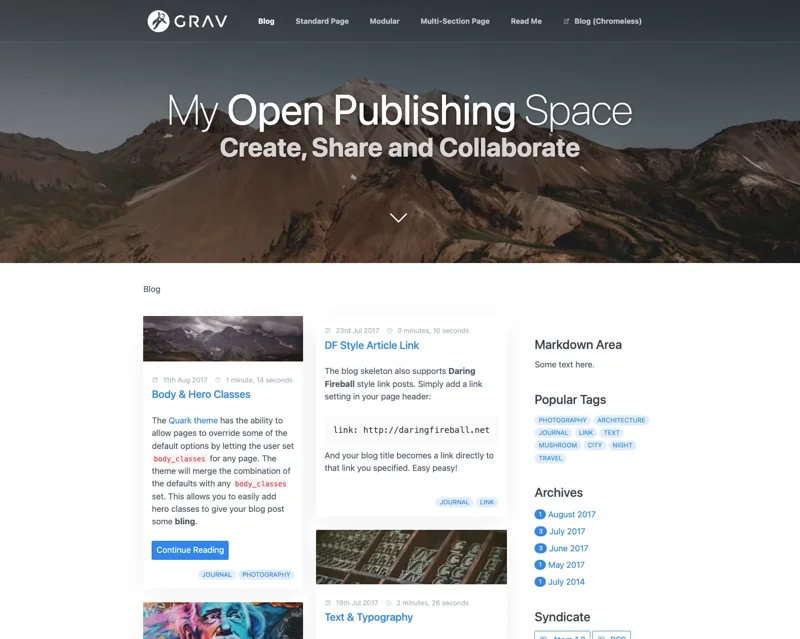
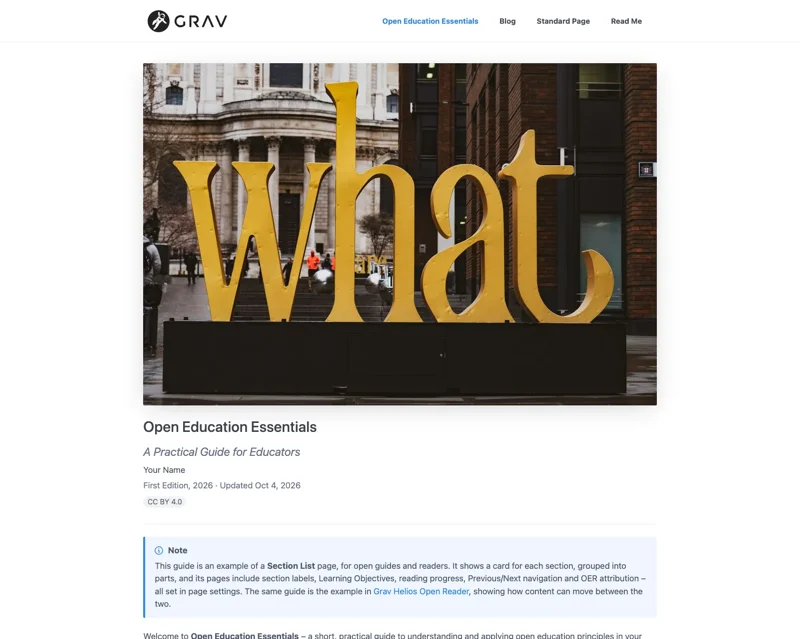
Use the Open Publishing Space guide homepage as its Cost-Free Grav Projects thumbnail.

diff --git a/cost-free-grav-projects.html b/cost-free-grav-projects.html
@@ -230,7 +230,7 @@
         </div>
       </div>
       <div class="grav-card" id="grav-open-publishing-space">
-        <div class="grav-thumb"><a href="https://demo.hibbittsdesign.org/grav-open-publishing-quark/" target="_blank" rel="noopener"><img src="assets/screenshots/grav-open-publishing-thumb.webp" width="800" height="639" alt="Screenshot of the Grav Open Publishing Space home page on the Quark theme, showing a full-width hero image above a blog listing"></a></div>
+        <div class="grav-thumb"><a href="https://demo.hibbittsdesign.org/grav-open-publishing-quark/" target="_blank" rel="noopener"><img src="assets/screenshots/grav-open-publishing-thumb.webp" width="800" height="639" alt="Screenshot of the Grav Open Publishing Space home page on the Quark theme, showing an open guide with a cover image, guide details, and a note"></a></div>
         <h3>Grav Open Publishing Space</h3>
         <div class="badge-row"><span class="badge plain sm"><span aria-hidden="true">&#9733;</span> 27</span></div>
         <p>Collaborative Markdown publishing on the free Quark theme, suited to writers and publishers rather than course content &ndash; refreshed in 2026 with a Dark Mode option.</p>
